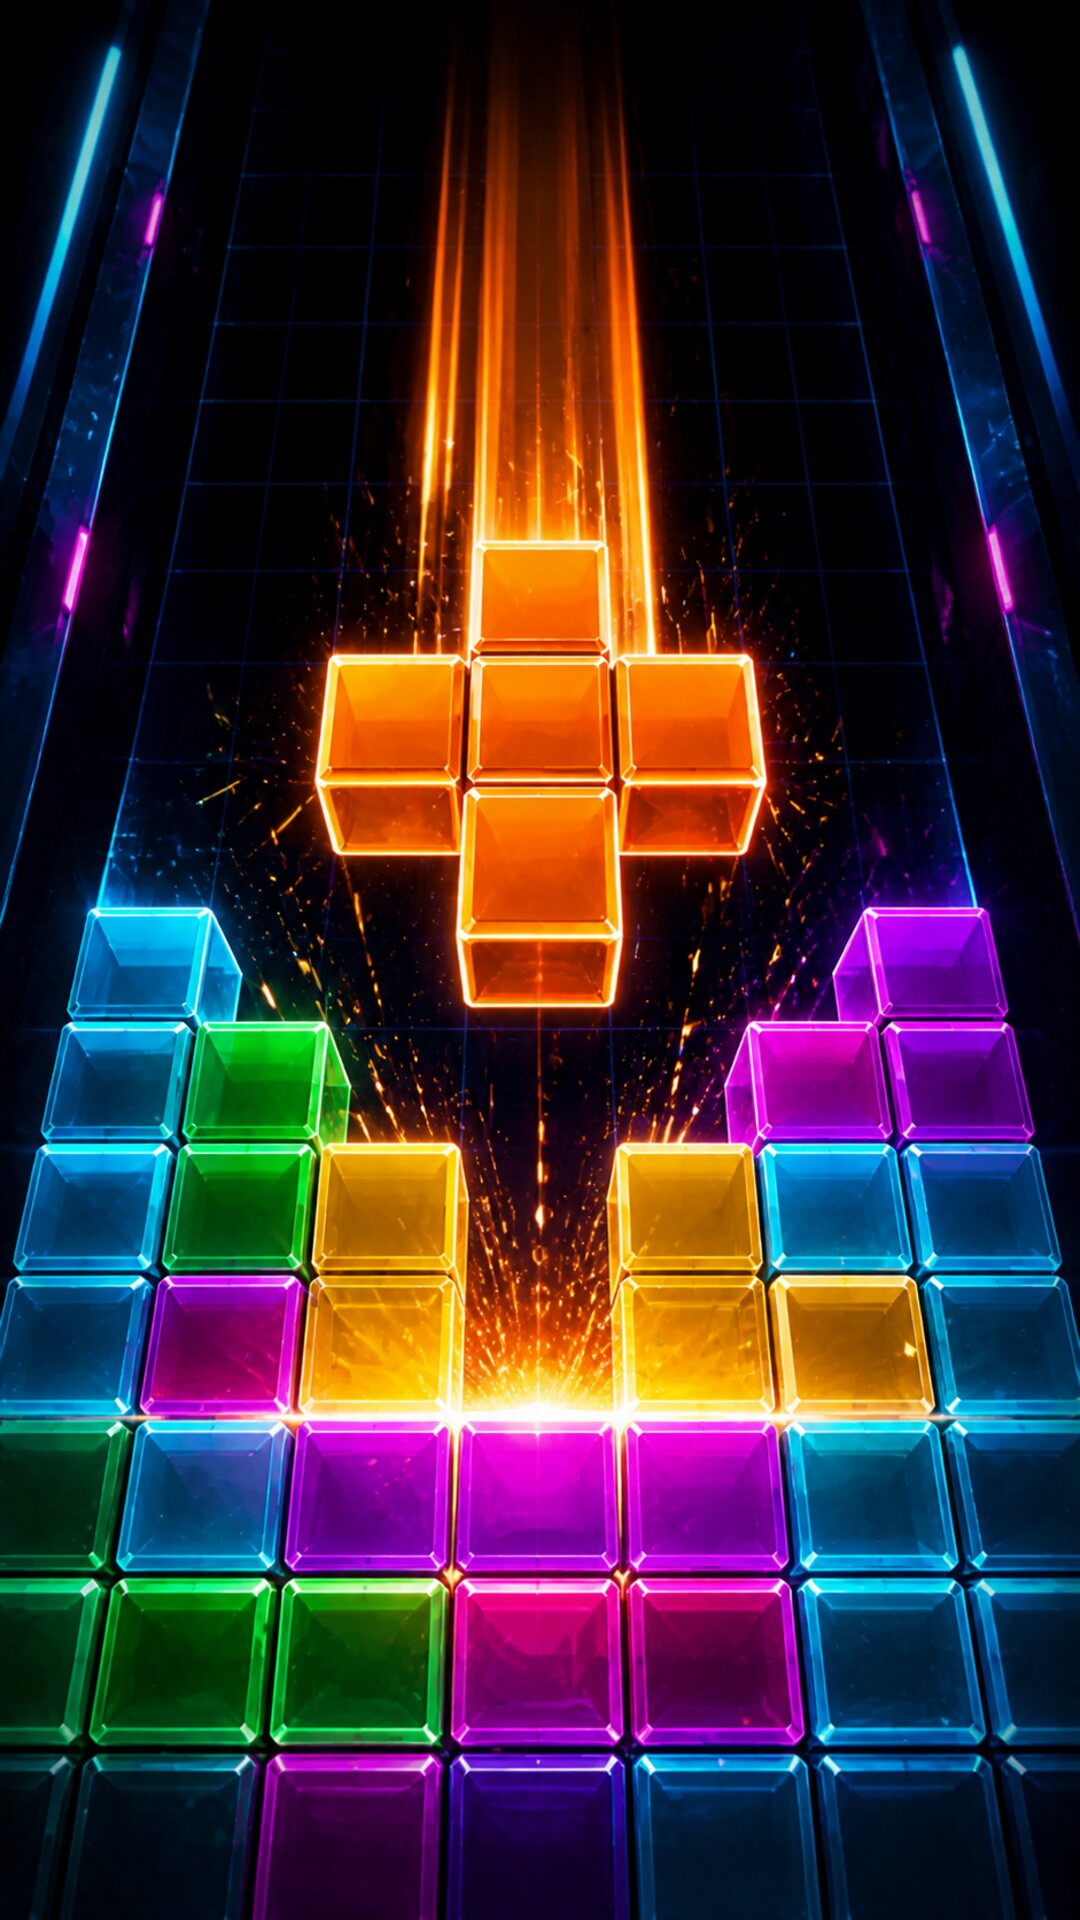
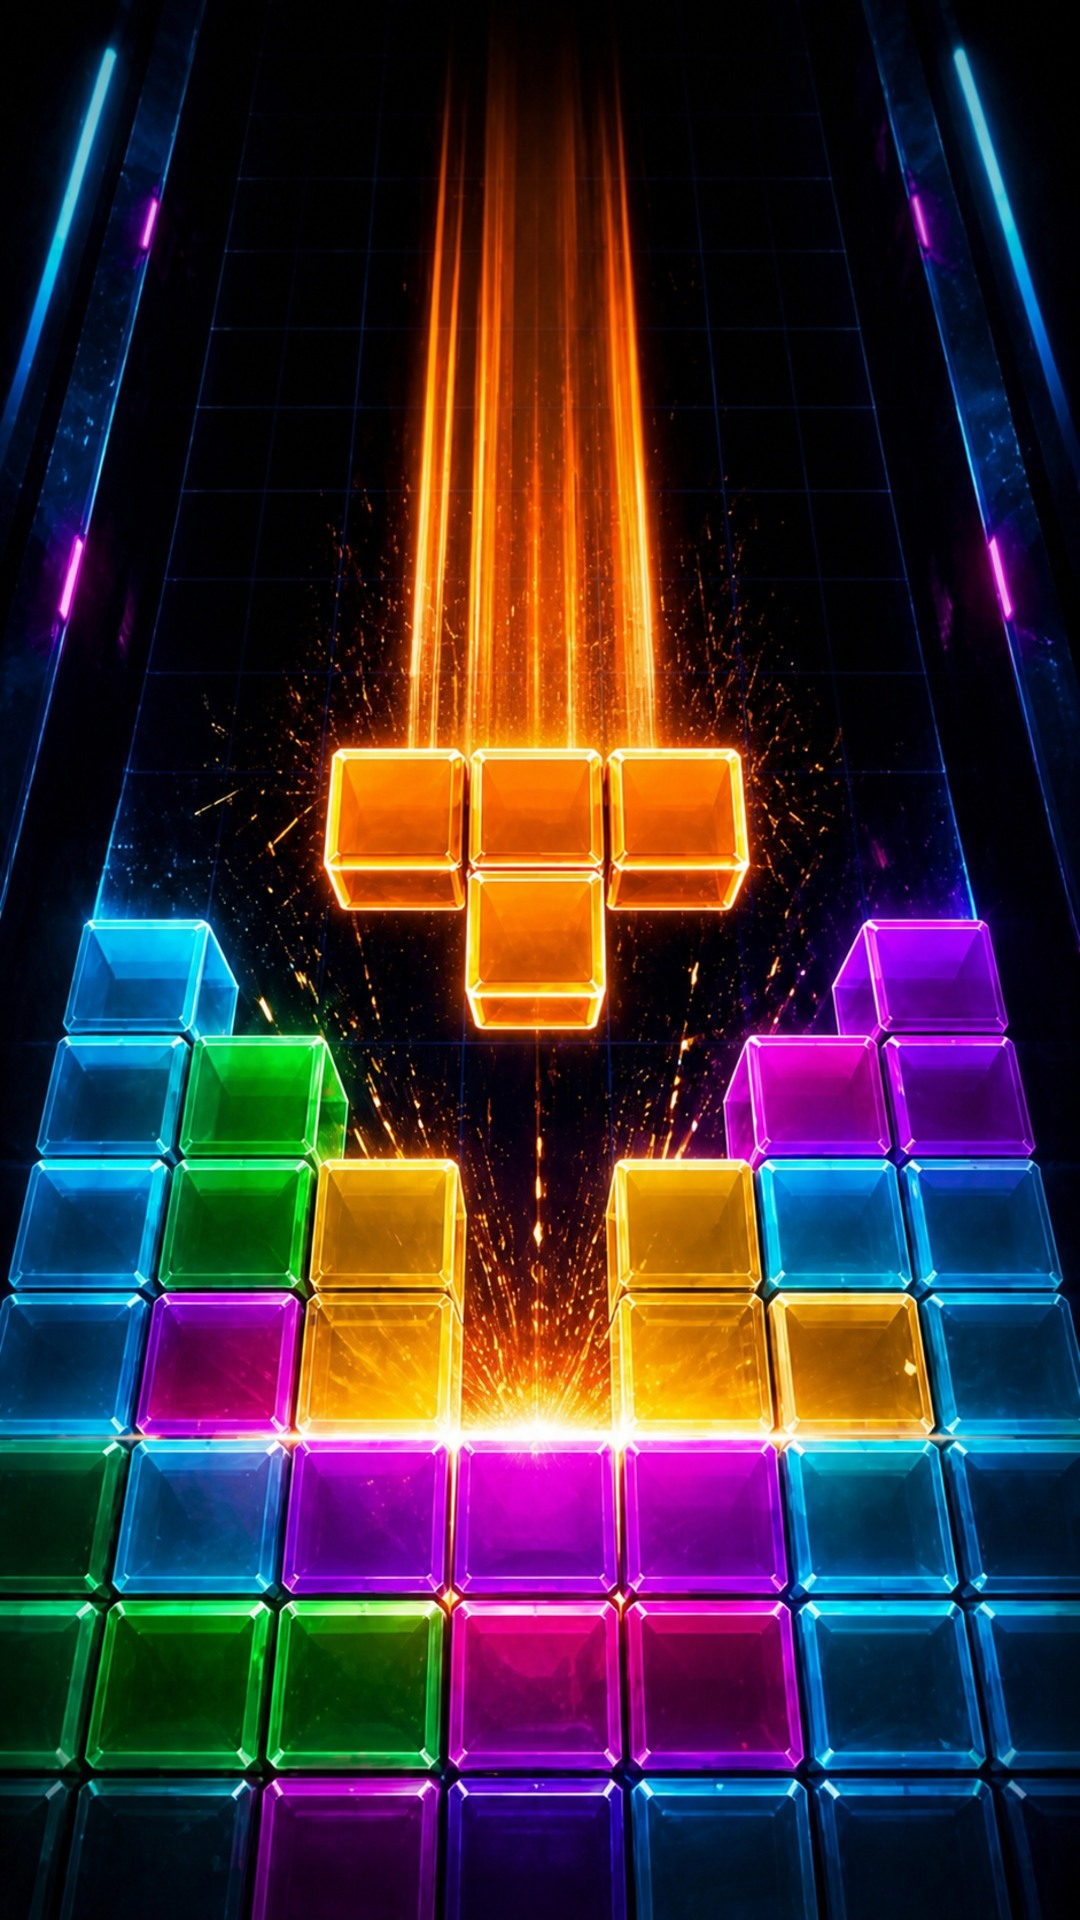
art(block-drop): feature a legal T tetromino in covers

diff --git a/AGENTS.md b/AGENTS.md
@@ -162,7 +162,7 @@ Every game also owns `assets/covers/games/<slug>-portrait.jpg` (1080×1920) and 
 
 The shared bottom dock is an occupied viewport region, not a decorative overlay. Simulation canvases, gesture hints, virtual joysticks and game-specific controls must end above `--rwg-common-dock-reserve`, including Android browser/navigation insets. In particular, Neon Snake must keep playfield, hint, joystick/Turbo and dock disjoint; Neon Rally must size its actual canvas above the dock so the player paddle remains visible. Never hide a collision with z-index or paint gameplay underneath the dock.
 
-Block Drop had a cold-load race where the asynchronous shared joystick changed the stage after the engine measured its Canvas. Its renderer must retain a Canvas-owned `ResizeObserver`, coalesced atomic backing-store/DPR/cell updates and stored render dimensions; `draw()` must never mix a live CSS rectangle with stale geometry. Rotate and Drop remain square, rounded, adjacent icon-led actions. See `docs/BLOCK-DROP.md` and `scripts/validate-block-drop.mjs`; do not regress to a one-shot window resize or unversioned local assets.
+Block Drop had a cold-load race where the asynchronous shared joystick changed the stage after the engine measured its Canvas. Its renderer must retain a Canvas-owned `ResizeObserver`, coalesced atomic backing-store/DPR/cell updates and stored render dimensions; `draw()` must never mix a live CSS rectangle with stale geometry. Rotate and Drop remain square, rounded, adjacent icon-led actions. Its orange foreground cover hero is always a legal four-block T tetromino, never a decorative impossible polyomino. See `docs/BLOCK-DROP.md` and `scripts/validate-block-drop.mjs`; do not regress to a one-shot window resize or unversioned local assets.
 
 Game pages load `game-hud.js` and `orientation.js` with one matching release query. Those bootstraps propagate that query to dynamic shared dependencies. When shared UI changes, bump the query across every game page; version any directly changed local CSS/JS too. Do not rely on the service worker cache name alone, because the browser HTTP cache can otherwise produce a mixed-generation UI. `docs/SHARED-HUD-CONTROLS.md` and `scripts/validate-shared-controls.mjs` are authoritative.
 

diff --git a/docs/BLOCK-DROP.md b/docs/BLOCK-DROP.md
@@ -43,6 +43,10 @@ Permanent fix: Canvas-owned `ResizeObserver`, coalesced atomic resizing and stor
 
 Rotate and hard Drop are square, rounded, adjacent action buttons beside the joystick. Each uses an original inline SVG plus a short text label and a complete `aria-label`. Drop explicitly owns a yellow foreground and dark background with `!important` at the game-scoped selector: the dynamically loaded shared action style also uses `!important`, so relying on the old low-specificity dark foreground makes both its icon and label effectively invisible. Direction buttons remain hidden adapter targets once the shared joystick mounts.
 
+## Cover-art invariant
+
+The dedicated 1200×630 social cover and both 9:16 home-card derivatives must depict only legal tetrominoes. The orange foreground hero piece is an unmistakable T tetromino made of exactly four equal blocks: three contiguous blocks in one row and one block centred directly below them. Keep this gameplay-authentic silhouette when regenerating or retouching either asset; decorative perspective, glass material, glow and motion trails must never add apparent extra blocks.
+
 ## Required validation
 
 ```bash
